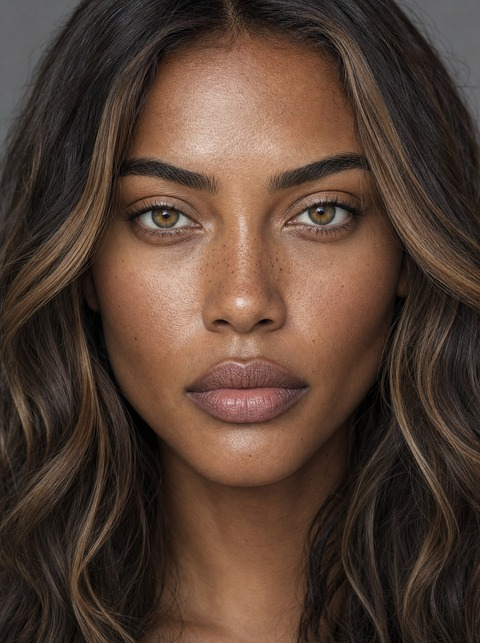
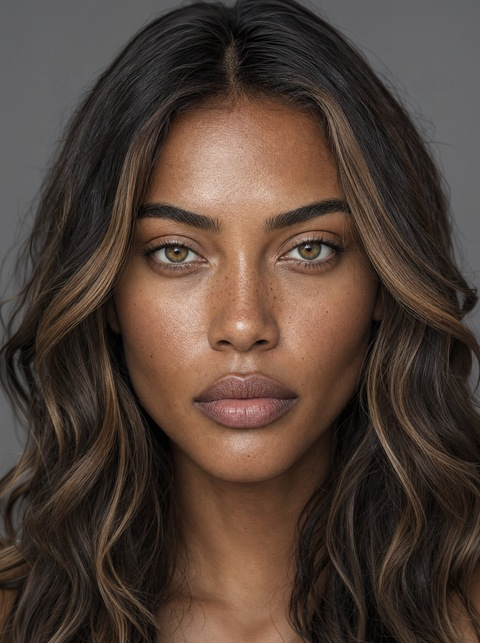
Modeles : Alex, nouveau cadrage du portrait et fiche mise a jour

diff --git a/modeles.html b/modeles.html
@@ -204,7 +204,7 @@ footer a:hover{color:var(--pink2)}
 const FLAT = [{"slug": "femmes-agatha", "name": "Agatha", "section": "Femmes", "sheet": "img/m-femmes-agatha-sheet.jpg", "face": "img/m-femmes-agatha-face.jpg"}, {"slug": "femmes-alex", "name": "Alex", "section": "Femmes", "sheet": "img/m-femmes-alex-sheet.jpg", "face": "img/m-femmes-alex-face.jpg"}, {"slug": "femmes-alice", "name": "Alice", "section": "Femmes", "sheet": "img/m-femmes-alice-sheet.jpg", "face": "img/m-femmes-alice-face.jpg"}, {"slug": "femmes-cyndie", "name": "Cyndie", "section": "Femmes", "sheet": "img/m-femmes-cyndie-sheet.jpg", "face": "img/m-femmes-cyndie-face.jpg"}, {"slug": "femmes-ella", "name": "Ella", "section": "Femmes", "sheet": "img/m-femmes-ella-sheet.jpg", "face": "img/m-femmes-ella-lbface.jpg"}, {"slug": "femmes-eva", "name": "Eva", "section": "Femmes", "sheet": "img/m-femmes-eva-sheet.jpg", "face": "img/m-femmes-eva-face.jpg"}, {"slug": "femmes-ivanka", "name": "Ivanka", "section": "Femmes", "sheet": "img/m-femmes-ivanka-sheet.jpg", "face": "img/m-femmes-ivanka-lbface.jpg"}, {"slug": "femmes-joy", "name": "Joy", "section": "Femmes", "sheet": "img/m-femmes-joy-sheet.jpg", "face": "img/m-femmes-joy-face.jpg"}, {"slug": "femmes-kim", "name": "Kim", "section": "Femmes", "sheet": "img/m-femmes-kim-sheet.jpg", "face": "img/m-femmes-kim-face.jpg"}, {"slug": "femmes-laura", "name": "Laura", "section": "Femmes", "sheet": "img/m-femmes-laura-sheet.jpg", "face": "img/m-femmes-laura-lbface.jpg"}, {"slug": "femmes-malika", "name": "Malika", "section": "Femmes", "sheet": "img/m-femmes-malika-sheet.jpg", "face": "img/m-femmes-malika-face.jpg"}, {"slug": "femmes-meg", "name": "Meg", "section": "Femmes", "sheet": "img/m-femmes-meg-sheet.jpg", "face": "img/m-femmes-meg-lbface.jpg"}, {"slug": "femmes-rachel", "name": "Rachel", "section": "Femmes", "sheet": "img/m-femmes-rachel-sheet.jpg", "face": "img/m-femmes-rachel-lbface.jpg"}, {"slug": "femmes-stephy", "name": "Stephy", "section": "Femmes", "sheet": "img/m-femmes-stephy-sheet.jpg", "face": "img/m-femmes-stephy-lbface.jpg"}, {"slug": "femmes-suzanne", "name": "Suzanne", "section": "Femmes", "sheet": "img/m-femmes-suzanne-sheet.jpg", "face": "img/m-femmes-suzanne-face.jpg"}, {"slug": "femmes-tracy", "name": "Tracy", "section": "Femmes", "sheet": "img/m-femmes-tracy-sheet.jpg", "face": "img/m-femmes-tracy-face.jpg"}, {"slug": "hommes-ansel", "name": "Ansel", "section": "Hommes", "sheet": "img/m-hommes-ansel-sheet.jpg", "face": "img/m-hommes-ansel-face.jpg"}, {"slug": "hommes-bernard", "name": "Bernard", "section": "Hommes", "sheet": "img/m-hommes-bernard-sheet.jpg", "face": "img/m-hommes-bernard-face.jpg"}, {"slug": "hommes-bill", "name": "Bill", "section": "Hommes", "sheet": "img/m-hommes-bill-sheet.jpg", "face": "img/m-hommes-bill-face.jpg"}, {"slug": "hommes-chen", "name": "Chen", "section": "Hommes", "sheet": "img/m-hommes-chen-sheet.jpg", "face": "img/m-hommes-chen-face.jpg"}, {"slug": "hommes-daniel", "name": "Daniel", "section": "Hommes", "sheet": "img/m-hommes-daniel-sheet.jpg", "face": "img/m-hommes-daniel-face.jpg"}, {"slug": "hommes-dave", "name": "Dave", "section": "Hommes", "sheet": "img/m-hommes-dave-sheet.jpg", "face": "img/m-hommes-dave-face.jpg"}, {"slug": "hommes-franck", "name": "Franck", "section": "Hommes", "sheet": "img/m-hommes-franck-sheet.jpg", "face": "img/m-hommes-franck-face.jpg"}, {"slug": "hommes-jack", "name": "Jack", "section": "Hommes", "sheet": "img/m-hommes-jack-sheet.jpg", "face": "img/m-hommes-jack-face.jpg"}, {"slug": "hommes-jamie", "name": "Jamie", "section": "Hommes", "sheet": "img/m-hommes-jamie-sheet.jpg", "face": "img/m-hommes-jamie-face.jpg"}, {"slug": "hommes-joe", "name": "Joe", "section": "Hommes", "sheet": "img/m-hommes-joe-sheet.jpg", "face": "img/m-hommes-joe-face.jpg"}, {"slug": "hommes-john", "name": "John", "section": "Hommes", "sheet": "img/m-hommes-john-sheet.jpg", "face": "img/m-hommes-john-face.jpg"}, {"slug": "hommes-marc", "name": "Marc", "section": "Hommes", "sheet": "img/m-hommes-marc-sheet.jpg", "face": "img/m-hommes-marc-face.jpg"}, {"slug": "hommes-mathias", "name": "Mathias", "section": "Hommes", "sheet": "img/m-hommes-mathias-sheet.jpg", "face": "img/m-hommes-mathias-face.jpg"}, {"slug": "hommes-mike", "name": "Mike", "section": "Hommes", "sheet": "img/m-hommes-mike-sheet.jpg", "face": "img/m-hommes-mike-face.jpg"}, {"slug": "hommes-simon", "name": "Simon", "section": "Hommes", "sheet": "img/m-hommes-simon-sheet.jpg", "face": "img/m-hommes-simon-face.jpg"}, {"slug": "hommes-tom", "name": "Tom", "section": "Hommes", "sheet": "img/m-hommes-tom-sheet.jpg", "face": "img/m-hommes-tom-face.jpg"}, {"slug": "ados-maeva", "name": "Maeva", "section": "Ados", "sheet": "img/m-ados-maeva-sheet.jpg", "face": "img/m-ados-maeva-face.jpg"}, {"slug": "ados-mathis", "name": "Mathis", "section": "Ados", "sheet": "img/m-ados-mathis-sheet.jpg", "face": "img/m-ados-mathis-face.jpg"}, {"slug": "ados-paul", "name": "Paul", "section": "Ados", "sheet": "img/m-ados-paul-sheet.jpg", "face": "img/m-ados-paul-lbface.jpg"}, {"slug": "ados-romy", "name": "Romy", "section": "Ados", "sheet": "img/m-ados-romy-sheet.jpg", "face": "img/m-ados-romy-face.jpg"}, {"slug": "ados-roy", "name": "Roy", "section": "Ados", "sheet": "img/m-ados-roy-sheet.jpg", "face": "img/m-ados-roy-face.jpg"}, {"slug": "ados-steeve", "name": "Steeve", "section": "Ados", "sheet": "img/m-ados-steeve-sheet.jpg", "face": "img/m-ados-steeve-face.jpg"}, {"slug": "enfants-billy", "name": "Billy", "section": "Enfants", "sheet": "img/m-enfants-billy-sheet.jpg", "face": "img/m-enfants-billy-face.jpg"}, {"slug": "enfants-jean", "name": "Jean", "section": "Enfants", "sheet": "img/m-enfants-jean-sheet.jpg", "face": "img/m-enfants-jean-face.jpg"}, {"slug": "enfants-kevin", "name": "Kevin", "section": "Enfants", "sheet": "img/m-enfants-kevin-sheet.jpg", "face": "img/m-enfants-kevin-face.jpg"}, {"slug": "enfants-lauren", "name": "Lauren", "section": "Enfants", "sheet": "img/m-enfants-lauren-sheet.jpg", "face": "img/m-enfants-lauren-face.jpg"}, {"slug": "enfants-lea", "name": "Lea", "section": "Enfants", "sheet": "img/m-enfants-lea-sheet.jpg", "face": "img/m-enfants-lea-face.jpg"}, {"slug": "enfants-rosie", "name": "Rosie", "section": "Enfants", "sheet": "img/m-enfants-rosie-sheet.jpg", "face": "img/m-enfants-rosie-face.jpg"}, {"slug": "seniors-anita", "name": "Anita", "section": "Seniors", "sheet": "img/m-seniors-anita-sheet.jpg", "face": "img/m-seniors-anita-face.jpg"}, {"slug": "seniors-claude", "name": "Claude", "section": "Seniors", "sheet": "img/m-seniors-claude-sheet.jpg", "face": "img/m-seniors-claude-face.jpg"}, {"slug": "seniors-clive", "name": "Clive", "section": "Seniors", "sheet": "img/m-seniors-clive-sheet.jpg", "face": "img/m-seniors-clive-face.jpg"}, {"slug": "seniors-juliette", "name": "Juliette", "section": "Seniors", "sheet": "img/m-seniors-juliette-sheet.jpg", "face": "img/m-seniors-juliette-face.jpg"}, {"slug": "seniors-marise", "name": "Marise", "section": "Seniors", "sheet": "img/m-seniors-marise-sheet.jpg", "face": "img/m-seniors-marise-face.jpg"}, {"slug": "seniors-philippe", "name": "Philippe", "section": "Seniors", "sheet": "img/m-seniors-philippe-sheet.jpg", "face": "img/m-seniors-philippe-face.jpg"}];
 (function(){var e=document.getElementById('kcount');if(!e)return;var s={};FLAT.forEach(function(m){s[m.section]=1});e.textContent=FLAT.length+' visages \u00b7 '+Object.keys(s).length+' catégories';})();
 
-const STATS = {"femmes-agatha": {"h": 176, "hair": "Blond", "eyes": "Bleu"}, "femmes-alex": {"h": 174, "hair": "Châtain foncé", "eyes": "Marron"}, "femmes-alice": {"h": 178, "hair": "Roux", "eyes": "Bleu"}, "femmes-cyndie": {"h": 179, "hair": "Noir", "eyes": "Marron"}, "femmes-ella": {"h": 175, "hair": "Châtain clair", "eyes": "Vert"}, "femmes-eva": {"h": 172, "hair": "Noir", "eyes": "Marron"}, "femmes-ivanka": {"h": 175, "hair": "Blond vénitien", "eyes": "Vert"}, "femmes-joy": {"h": 180, "hair": "Noir", "eyes": "Vert"}, "femmes-kim": {"h": 171, "hair": "Châtain foncé", "eyes": "Vert"}, "femmes-laura": {"h": 178, "hair": "Châtain clair", "eyes": "Vert"}, "femmes-malika": {"h": 173, "hair": "Noir", "eyes": "Marron"}, "femmes-meg": {"h": 179, "hair": "Noir", "eyes": "Marron"}, "femmes-rachel": {"h": 176, "hair": "Blond", "eyes": "Bleu"}, "femmes-stephy": {"h": 174, "hair": "Roux", "eyes": "Vert"}, "femmes-suzanne": {"h": 177, "hair": "Noir", "eyes": "Marron"}, "femmes-tracy": {"h": 175, "hair": "Brun", "eyes": "Marron"}, "hommes-ansel": {"h": 187, "hair": "Blond", "eyes": "Bleu"}, "hommes-bernard": {"h": 184, "hair": "Noir", "eyes": "Marron"}, "hommes-bill": {"h": 182, "hair": "Gris", "eyes": "Bleu"}, "hommes-chen": {"h": 180, "hair": "Noir", "eyes": "Marron"}, "hommes-daniel": {"h": 190, "hair": "Châtain", "eyes": "Bleu"}, "hommes-dave": {"h": 186, "hair": "Gris", "eyes": "Bleu"}, "hommes-franck": {"h": 185, "hair": "Brun", "eyes": "Marron"}, "hommes-jack": {"h": 179, "hair": "Noir", "eyes": "Marron"}, "hommes-jamie": {"h": 181, "hair": "Noir", "eyes": "Marron"}, "hommes-joe": {"h": 183, "hair": "Châtain foncé", "eyes": "Marron"}, "hommes-john": {"h": 188, "hair": "Blond", "eyes": "Bleu"}, "hommes-marc": {"h": 186, "hair": "Noir", "eyes": "Marron"}, "hommes-mathias": {"h": 184, "hair": "Poivre et sel", "eyes": "Bleu"}, "hommes-mike": {"h": 182, "hair": "Brun", "eyes": "Marron"}, "hommes-simon": {"h": 189, "hair": "Noir", "eyes": "Marron"}, "hommes-tom": {"h": 185, "hair": "Brun", "eyes": "Bleu"}, "ados-maeva": {"h": 170, "hair": "Brun", "eyes": "Marron"}, "ados-mathis": {"h": 178, "hair": "Brun", "eyes": "Marron"}, "ados-paul": {"h": 180, "hair": "Noir", "eyes": "Marron"}, "ados-romy": {"h": 168, "hair": "Brun", "eyes": "Marron"}, "ados-roy": {"h": 179, "hair": "Noir", "eyes": "Marron"}, "ados-steeve": {"h": 182, "hair": "Brun", "eyes": "Marron"}, "enfants-billy": {"h": 116, "hair": "Roux", "eyes": "Bleu", "age": 6}, "enfants-jean": {"h": 138, "hair": "Châtain", "eyes": "Vert", "age": 10}, "enfants-kevin": {"h": 110, "hair": "Noir", "eyes": "Marron", "age": 5}, "enfants-lauren": {"h": 116, "hair": "Châtain clair", "eyes": "Vert", "age": 6}, "enfants-lea": {"h": 110, "hair": "Brun", "eyes": "Marron", "age": 5}, "enfants-rosie": {"h": 122, "hair": "Blond", "eyes": "Bleu", "age": 7}, "seniors-anita": {"h": 158, "hair": "Blanc", "eyes": "Marron", "age": 85}, "seniors-claude": {"h": 178, "hair": "Gris", "eyes": "Marron", "age": 82}, "seniors-clive": {"h": 180, "hair": "Blanc", "eyes": "Bleu", "age": 80}, "seniors-juliette": {"h": 168, "hair": "Gris", "eyes": "Bleu", "age": 65}, "seniors-marise": {"h": 160, "hair": "Gris", "eyes": "Marron", "age": 67}, "seniors-philippe": {"h": 179, "hair": "Gris", "eyes": "Marron", "age": 67}};
+const STATS = {"femmes-agatha": {"h": 176, "hair": "Blond", "eyes": "Bleu"}, "femmes-alex": {"h": 174, "hair": "Châtain foncé, balayage caramel", "eyes": "Noisette"}, "femmes-alice": {"h": 178, "hair": "Roux", "eyes": "Bleu"}, "femmes-cyndie": {"h": 179, "hair": "Noir", "eyes": "Marron"}, "femmes-ella": {"h": 175, "hair": "Châtain clair", "eyes": "Vert"}, "femmes-eva": {"h": 172, "hair": "Noir", "eyes": "Marron"}, "femmes-ivanka": {"h": 175, "hair": "Blond vénitien", "eyes": "Vert"}, "femmes-joy": {"h": 180, "hair": "Noir", "eyes": "Vert"}, "femmes-kim": {"h": 171, "hair": "Châtain foncé", "eyes": "Vert"}, "femmes-laura": {"h": 178, "hair": "Châtain clair", "eyes": "Vert"}, "femmes-malika": {"h": 173, "hair": "Noir", "eyes": "Marron"}, "femmes-meg": {"h": 179, "hair": "Noir", "eyes": "Marron"}, "femmes-rachel": {"h": 176, "hair": "Blond", "eyes": "Bleu"}, "femmes-stephy": {"h": 174, "hair": "Roux", "eyes": "Vert"}, "femmes-suzanne": {"h": 177, "hair": "Noir", "eyes": "Marron"}, "femmes-tracy": {"h": 175, "hair": "Brun", "eyes": "Marron"}, "hommes-ansel": {"h": 187, "hair": "Blond", "eyes": "Bleu"}, "hommes-bernard": {"h": 184, "hair": "Noir", "eyes": "Marron"}, "hommes-bill": {"h": 182, "hair": "Gris", "eyes": "Bleu"}, "hommes-chen": {"h": 180, "hair": "Noir", "eyes": "Marron"}, "hommes-daniel": {"h": 190, "hair": "Châtain", "eyes": "Bleu"}, "hommes-dave": {"h": 186, "hair": "Gris", "eyes": "Bleu"}, "hommes-franck": {"h": 185, "hair": "Brun", "eyes": "Marron"}, "hommes-jack": {"h": 179, "hair": "Noir", "eyes": "Marron"}, "hommes-jamie": {"h": 181, "hair": "Noir", "eyes": "Marron"}, "hommes-joe": {"h": 183, "hair": "Châtain foncé", "eyes": "Marron"}, "hommes-john": {"h": 188, "hair": "Blond", "eyes": "Bleu"}, "hommes-marc": {"h": 186, "hair": "Noir", "eyes": "Marron"}, "hommes-mathias": {"h": 184, "hair": "Poivre et sel", "eyes": "Bleu"}, "hommes-mike": {"h": 182, "hair": "Brun", "eyes": "Marron"}, "hommes-simon": {"h": 189, "hair": "Noir", "eyes": "Marron"}, "hommes-tom": {"h": 185, "hair": "Brun", "eyes": "Bleu"}, "ados-maeva": {"h": 170, "hair": "Brun", "eyes": "Marron"}, "ados-mathis": {"h": 178, "hair": "Brun", "eyes": "Marron"}, "ados-paul": {"h": 180, "hair": "Noir", "eyes": "Marron"}, "ados-romy": {"h": 168, "hair": "Brun", "eyes": "Marron"}, "ados-roy": {"h": 179, "hair": "Noir", "eyes": "Marron"}, "ados-steeve": {"h": 182, "hair": "Brun", "eyes": "Marron"}, "enfants-billy": {"h": 116, "hair": "Roux", "eyes": "Bleu", "age": 6}, "enfants-jean": {"h": 138, "hair": "Châtain", "eyes": "Vert", "age": 10}, "enfants-kevin": {"h": 110, "hair": "Noir", "eyes": "Marron", "age": 5}, "enfants-lauren": {"h": 116, "hair": "Châtain clair", "eyes": "Vert", "age": 6}, "enfants-lea": {"h": 110, "hair": "Brun", "eyes": "Marron", "age": 5}, "enfants-rosie": {"h": 122, "hair": "Blond", "eyes": "Bleu", "age": 7}, "seniors-anita": {"h": 158, "hair": "Blanc", "eyes": "Marron", "age": 85}, "seniors-claude": {"h": 178, "hair": "Gris", "eyes": "Marron", "age": 82}, "seniors-clive": {"h": 180, "hair": "Blanc", "eyes": "Bleu", "age": 80}, "seniors-juliette": {"h": 168, "hair": "Gris", "eyes": "Bleu", "age": 65}, "seniors-marise": {"h": 160, "hair": "Gris", "eyes": "Marron", "age": 67}, "seniors-philippe": {"h": 179, "hair": "Gris", "eyes": "Marron", "age": 67}};
 function tall(cm){
   return (cm/100).toFixed(2).replace('.',',')+' m';
 }

diff --git a/models-en.html b/models-en.html
@@ -204,7 +204,7 @@ footer a:hover{color:var(--pink2)}
 const FLAT = [{"slug": "femmes-agatha", "name": "Agatha", "section": "Women", "sheet": "img/m-femmes-agatha-sheet.jpg", "face": "img/m-femmes-agatha-face.jpg"}, {"slug": "femmes-alex", "name": "Alex", "section": "Women", "sheet": "img/m-femmes-alex-sheet.jpg", "face": "img/m-femmes-alex-face.jpg"}, {"slug": "femmes-alice", "name": "Alice", "section": "Women", "sheet": "img/m-femmes-alice-sheet.jpg", "face": "img/m-femmes-alice-face.jpg"}, {"slug": "femmes-cyndie", "name": "Cyndie", "section": "Women", "sheet": "img/m-femmes-cyndie-sheet.jpg", "face": "img/m-femmes-cyndie-face.jpg"}, {"slug": "femmes-ella", "name": "Ella", "section": "Women", "sheet": "img/m-femmes-ella-sheet.jpg", "face": "img/m-femmes-ella-lbface.jpg"}, {"slug": "femmes-eva", "name": "Eva", "section": "Women", "sheet": "img/m-femmes-eva-sheet.jpg", "face": "img/m-femmes-eva-face.jpg"}, {"slug": "femmes-ivanka", "name": "Ivanka", "section": "Women", "sheet": "img/m-femmes-ivanka-sheet.jpg", "face": "img/m-femmes-ivanka-lbface.jpg"}, {"slug": "femmes-joy", "name": "Joy", "section": "Women", "sheet": "img/m-femmes-joy-sheet.jpg", "face": "img/m-femmes-joy-face.jpg"}, {"slug": "femmes-kim", "name": "Kim", "section": "Women", "sheet": "img/m-femmes-kim-sheet.jpg", "face": "img/m-femmes-kim-face.jpg"}, {"slug": "femmes-laura", "name": "Laura", "section": "Women", "sheet": "img/m-femmes-laura-sheet.jpg", "face": "img/m-femmes-laura-lbface.jpg"}, {"slug": "femmes-malika", "name": "Malika", "section": "Women", "sheet": "img/m-femmes-malika-sheet.jpg", "face": "img/m-femmes-malika-face.jpg"}, {"slug": "femmes-meg", "name": "Meg", "section": "Women", "sheet": "img/m-femmes-meg-sheet.jpg", "face": "img/m-femmes-meg-lbface.jpg"}, {"slug": "femmes-rachel", "name": "Rachel", "section": "Women", "sheet": "img/m-femmes-rachel-sheet.jpg", "face": "img/m-femmes-rachel-lbface.jpg"}, {"slug": "femmes-stephy", "name": "Stephy", "section": "Women", "sheet": "img/m-femmes-stephy-sheet.jpg", "face": "img/m-femmes-stephy-lbface.jpg"}, {"slug": "femmes-suzanne", "name": "Suzanne", "section": "Women", "sheet": "img/m-femmes-suzanne-sheet.jpg", "face": "img/m-femmes-suzanne-face.jpg"}, {"slug": "femmes-tracy", "name": "Tracy", "section": "Women", "sheet": "img/m-femmes-tracy-sheet.jpg", "face": "img/m-femmes-tracy-face.jpg"}, {"slug": "hommes-ansel", "name": "Ansel", "section": "Men", "sheet": "img/m-hommes-ansel-sheet.jpg", "face": "img/m-hommes-ansel-face.jpg"}, {"slug": "hommes-bernard", "name": "Bernard", "section": "Men", "sheet": "img/m-hommes-bernard-sheet.jpg", "face": "img/m-hommes-bernard-face.jpg"}, {"slug": "hommes-bill", "name": "Bill", "section": "Men", "sheet": "img/m-hommes-bill-sheet.jpg", "face": "img/m-hommes-bill-face.jpg"}, {"slug": "hommes-chen", "name": "Chen", "section": "Men", "sheet": "img/m-hommes-chen-sheet.jpg", "face": "img/m-hommes-chen-face.jpg"}, {"slug": "hommes-daniel", "name": "Daniel", "section": "Men", "sheet": "img/m-hommes-daniel-sheet.jpg", "face": "img/m-hommes-daniel-face.jpg"}, {"slug": "hommes-dave", "name": "Dave", "section": "Men", "sheet": "img/m-hommes-dave-sheet.jpg", "face": "img/m-hommes-dave-face.jpg"}, {"slug": "hommes-franck", "name": "Franck", "section": "Men", "sheet": "img/m-hommes-franck-sheet.jpg", "face": "img/m-hommes-franck-face.jpg"}, {"slug": "hommes-jack", "name": "Jack", "section": "Men", "sheet": "img/m-hommes-jack-sheet.jpg", "face": "img/m-hommes-jack-face.jpg"}, {"slug": "hommes-jamie", "name": "Jamie", "section": "Men", "sheet": "img/m-hommes-jamie-sheet.jpg", "face": "img/m-hommes-jamie-face.jpg"}, {"slug": "hommes-joe", "name": "Joe", "section": "Men", "sheet": "img/m-hommes-joe-sheet.jpg", "face": "img/m-hommes-joe-face.jpg"}, {"slug": "hommes-john", "name": "John", "section": "Men", "sheet": "img/m-hommes-john-sheet.jpg", "face": "img/m-hommes-john-face.jpg"}, {"slug": "hommes-marc", "name": "Marc", "section": "Men", "sheet": "img/m-hommes-marc-sheet.jpg", "face": "img/m-hommes-marc-face.jpg"}, {"slug": "hommes-mathias", "name": "Mathias", "section": "Men", "sheet": "img/m-hommes-mathias-sheet.jpg", "face": "img/m-hommes-mathias-face.jpg"}, {"slug": "hommes-mike", "name": "Mike", "section": "Men", "sheet": "img/m-hommes-mike-sheet.jpg", "face": "img/m-hommes-mike-face.jpg"}, {"slug": "hommes-simon", "name": "Simon", "section": "Men", "sheet": "img/m-hommes-simon-sheet.jpg", "face": "img/m-hommes-simon-face.jpg"}, {"slug": "hommes-tom", "name": "Tom", "section": "Men", "sheet": "img/m-hommes-tom-sheet.jpg", "face": "img/m-hommes-tom-face.jpg"}, {"slug": "ados-maeva", "name": "Maeva", "section": "Teens", "sheet": "img/m-ados-maeva-sheet.jpg", "face": "img/m-ados-maeva-face.jpg"}, {"slug": "ados-mathis", "name": "Mathis", "section": "Teens", "sheet": "img/m-ados-mathis-sheet.jpg", "face": "img/m-ados-mathis-face.jpg"}, {"slug": "ados-paul", "name": "Paul", "section": "Teens", "sheet": "img/m-ados-paul-sheet.jpg", "face": "img/m-ados-paul-lbface.jpg"}, {"slug": "ados-romy", "name": "Romy", "section": "Teens", "sheet": "img/m-ados-romy-sheet.jpg", "face": "img/m-ados-romy-face.jpg"}, {"slug": "ados-roy", "name": "Roy", "section": "Teens", "sheet": "img/m-ados-roy-sheet.jpg", "face": "img/m-ados-roy-face.jpg"}, {"slug": "ados-steeve", "name": "Steeve", "section": "Teens", "sheet": "img/m-ados-steeve-sheet.jpg", "face": "img/m-ados-steeve-face.jpg"}, {"slug": "enfants-billy", "name": "Billy", "section": "Kids", "sheet": "img/m-enfants-billy-sheet.jpg", "face": "img/m-enfants-billy-face.jpg"}, {"slug": "enfants-jean", "name": "Jean", "section": "Kids", "sheet": "img/m-enfants-jean-sheet.jpg", "face": "img/m-enfants-jean-face.jpg"}, {"slug": "enfants-kevin", "name": "Kevin", "section": "Kids", "sheet": "img/m-enfants-kevin-sheet.jpg", "face": "img/m-enfants-kevin-face.jpg"}, {"slug": "enfants-lauren", "name": "Lauren", "section": "Kids", "sheet": "img/m-enfants-lauren-sheet.jpg", "face": "img/m-enfants-lauren-face.jpg"}, {"slug": "enfants-lea", "name": "Lea", "section": "Kids", "sheet": "img/m-enfants-lea-sheet.jpg", "face": "img/m-enfants-lea-face.jpg"}, {"slug": "enfants-rosie", "name": "Rosie", "section": "Kids", "sheet": "img/m-enfants-rosie-sheet.jpg", "face": "img/m-enfants-rosie-face.jpg"}, {"slug": "seniors-anita", "name": "Anita", "section": "Seniors", "sheet": "img/m-seniors-anita-sheet.jpg", "face": "img/m-seniors-anita-face.jpg"}, {"slug": "seniors-claude", "name": "Claude", "section": "Seniors", "sheet": "img/m-seniors-claude-sheet.jpg", "face": "img/m-seniors-claude-face.jpg"}, {"slug": "seniors-clive", "name": "Clive", "section": "Seniors", "sheet": "img/m-seniors-clive-sheet.jpg", "face": "img/m-seniors-clive-face.jpg"}, {"slug": "seniors-juliette", "name": "Juliette", "section": "Seniors", "sheet": "img/m-seniors-juliette-sheet.jpg", "face": "img/m-seniors-juliette-face.jpg"}, {"slug": "seniors-marise", "name": "Marise", "section": "Seniors", "sheet": "img/m-seniors-marise-sheet.jpg", "face": "img/m-seniors-marise-face.jpg"}, {"slug": "seniors-philippe", "name": "Philippe", "section": "Seniors", "sheet": "img/m-seniors-philippe-sheet.jpg", "face": "img/m-seniors-philippe-face.jpg"}];
 (function(){var e=document.getElementById('kcount');if(!e)return;var s={};FLAT.forEach(function(m){s[m.section]=1});e.textContent=FLAT.length+' faces \u00b7 '+Object.keys(s).length+' categories';})();
 
-const STATS = {"femmes-agatha": {"h": 176, "hair": "Blonde", "eyes": "Blue"}, "femmes-alex": {"h": 174, "hair": "Dark brown", "eyes": "Brown"}, "femmes-alice": {"h": 178, "hair": "Red", "eyes": "Blue"}, "femmes-cyndie": {"h": 179, "hair": "Black", "eyes": "Brown"}, "femmes-ella": {"h": 175, "hair": "Light brown", "eyes": "Green"}, "femmes-eva": {"h": 172, "hair": "Black", "eyes": "Brown"}, "femmes-ivanka": {"h": 175, "hair": "Strawberry blonde", "eyes": "Green"}, "femmes-joy": {"h": 180, "hair": "Black", "eyes": "Green"}, "femmes-kim": {"h": 171, "hair": "Dark brown", "eyes": "Green"}, "femmes-laura": {"h": 178, "hair": "Light brown", "eyes": "Green"}, "femmes-malika": {"h": 173, "hair": "Black", "eyes": "Brown"}, "femmes-meg": {"h": 179, "hair": "Black", "eyes": "Brown"}, "femmes-rachel": {"h": 176, "hair": "Blonde", "eyes": "Blue"}, "femmes-stephy": {"h": 174, "hair": "Red", "eyes": "Green"}, "femmes-suzanne": {"h": 177, "hair": "Black", "eyes": "Brown"}, "femmes-tracy": {"h": 175, "hair": "Brown", "eyes": "Brown"}, "hommes-ansel": {"h": 187, "hair": "Blonde", "eyes": "Blue"}, "hommes-bernard": {"h": 184, "hair": "Black", "eyes": "Brown"}, "hommes-bill": {"h": 182, "hair": "Grey", "eyes": "Blue"}, "hommes-chen": {"h": 180, "hair": "Black", "eyes": "Brown"}, "hommes-daniel": {"h": 190, "hair": "Brown", "eyes": "Blue"}, "hommes-dave": {"h": 186, "hair": "Grey", "eyes": "Blue"}, "hommes-franck": {"h": 185, "hair": "Brown", "eyes": "Brown"}, "hommes-jack": {"h": 179, "hair": "Black", "eyes": "Brown"}, "hommes-jamie": {"h": 181, "hair": "Black", "eyes": "Brown"}, "hommes-joe": {"h": 183, "hair": "Dark brown", "eyes": "Brown"}, "hommes-john": {"h": 188, "hair": "Blonde", "eyes": "Blue"}, "hommes-marc": {"h": 186, "hair": "Black", "eyes": "Brown"}, "hommes-mathias": {"h": 184, "hair": "Salt and pepper", "eyes": "Blue"}, "hommes-mike": {"h": 182, "hair": "Brown", "eyes": "Brown"}, "hommes-simon": {"h": 189, "hair": "Black", "eyes": "Brown"}, "hommes-tom": {"h": 185, "hair": "Brown", "eyes": "Blue"}, "ados-maeva": {"h": 170, "hair": "Brown", "eyes": "Brown"}, "ados-mathis": {"h": 178, "hair": "Brown", "eyes": "Brown"}, "ados-paul": {"h": 180, "hair": "Black", "eyes": "Brown"}, "ados-romy": {"h": 168, "hair": "Brown", "eyes": "Brown"}, "ados-roy": {"h": 179, "hair": "Black", "eyes": "Brown"}, "ados-steeve": {"h": 182, "hair": "Brown", "eyes": "Brown"}, "enfants-billy": {"h": 116, "hair": "Red", "eyes": "Blue", "age": 6}, "enfants-jean": {"h": 138, "hair": "Brown", "eyes": "Green", "age": 10}, "enfants-kevin": {"h": 110, "hair": "Black", "eyes": "Brown", "age": 5}, "enfants-lauren": {"h": 116, "hair": "Light brown", "eyes": "Green", "age": 6}, "enfants-lea": {"h": 110, "hair": "Brown", "eyes": "Brown", "age": 5}, "enfants-rosie": {"h": 122, "hair": "Blonde", "eyes": "Blue", "age": 7}, "seniors-anita": {"h": 158, "hair": "White", "eyes": "Brown", "age": 85}, "seniors-claude": {"h": 178, "hair": "Grey", "eyes": "Brown", "age": 82}, "seniors-clive": {"h": 180, "hair": "White", "eyes": "Blue", "age": 80}, "seniors-juliette": {"h": 168, "hair": "Grey", "eyes": "Blue", "age": 65}, "seniors-marise": {"h": 160, "hair": "Grey", "eyes": "Brown", "age": 67}, "seniors-philippe": {"h": 179, "hair": "Grey", "eyes": "Brown", "age": 67}};
+const STATS = {"femmes-agatha": {"h": 176, "hair": "Blonde", "eyes": "Blue"}, "femmes-alex": {"h": 174, "hair": "Dark brown with honey highlights", "eyes": "Hazel"}, "femmes-alice": {"h": 178, "hair": "Red", "eyes": "Blue"}, "femmes-cyndie": {"h": 179, "hair": "Black", "eyes": "Brown"}, "femmes-ella": {"h": 175, "hair": "Light brown", "eyes": "Green"}, "femmes-eva": {"h": 172, "hair": "Black", "eyes": "Brown"}, "femmes-ivanka": {"h": 175, "hair": "Strawberry blonde", "eyes": "Green"}, "femmes-joy": {"h": 180, "hair": "Black", "eyes": "Green"}, "femmes-kim": {"h": 171, "hair": "Dark brown", "eyes": "Green"}, "femmes-laura": {"h": 178, "hair": "Light brown", "eyes": "Green"}, "femmes-malika": {"h": 173, "hair": "Black", "eyes": "Brown"}, "femmes-meg": {"h": 179, "hair": "Black", "eyes": "Brown"}, "femmes-rachel": {"h": 176, "hair": "Blonde", "eyes": "Blue"}, "femmes-stephy": {"h": 174, "hair": "Red", "eyes": "Green"}, "femmes-suzanne": {"h": 177, "hair": "Black", "eyes": "Brown"}, "femmes-tracy": {"h": 175, "hair": "Brown", "eyes": "Brown"}, "hommes-ansel": {"h": 187, "hair": "Blonde", "eyes": "Blue"}, "hommes-bernard": {"h": 184, "hair": "Black", "eyes": "Brown"}, "hommes-bill": {"h": 182, "hair": "Grey", "eyes": "Blue"}, "hommes-chen": {"h": 180, "hair": "Black", "eyes": "Brown"}, "hommes-daniel": {"h": 190, "hair": "Brown", "eyes": "Blue"}, "hommes-dave": {"h": 186, "hair": "Grey", "eyes": "Blue"}, "hommes-franck": {"h": 185, "hair": "Brown", "eyes": "Brown"}, "hommes-jack": {"h": 179, "hair": "Black", "eyes": "Brown"}, "hommes-jamie": {"h": 181, "hair": "Black", "eyes": "Brown"}, "hommes-joe": {"h": 183, "hair": "Dark brown", "eyes": "Brown"}, "hommes-john": {"h": 188, "hair": "Blonde", "eyes": "Blue"}, "hommes-marc": {"h": 186, "hair": "Black", "eyes": "Brown"}, "hommes-mathias": {"h": 184, "hair": "Salt and pepper", "eyes": "Blue"}, "hommes-mike": {"h": 182, "hair": "Brown", "eyes": "Brown"}, "hommes-simon": {"h": 189, "hair": "Black", "eyes": "Brown"}, "hommes-tom": {"h": 185, "hair": "Brown", "eyes": "Blue"}, "ados-maeva": {"h": 170, "hair": "Brown", "eyes": "Brown"}, "ados-mathis": {"h": 178, "hair": "Brown", "eyes": "Brown"}, "ados-paul": {"h": 180, "hair": "Black", "eyes": "Brown"}, "ados-romy": {"h": 168, "hair": "Brown", "eyes": "Brown"}, "ados-roy": {"h": 179, "hair": "Black", "eyes": "Brown"}, "ados-steeve": {"h": 182, "hair": "Brown", "eyes": "Brown"}, "enfants-billy": {"h": 116, "hair": "Red", "eyes": "Blue", "age": 6}, "enfants-jean": {"h": 138, "hair": "Brown", "eyes": "Green", "age": 10}, "enfants-kevin": {"h": 110, "hair": "Black", "eyes": "Brown", "age": 5}, "enfants-lauren": {"h": 116, "hair": "Light brown", "eyes": "Green", "age": 6}, "enfants-lea": {"h": 110, "hair": "Brown", "eyes": "Brown", "age": 5}, "enfants-rosie": {"h": 122, "hair": "Blonde", "eyes": "Blue", "age": 7}, "seniors-anita": {"h": 158, "hair": "White", "eyes": "Brown", "age": 85}, "seniors-claude": {"h": 178, "hair": "Grey", "eyes": "Brown", "age": 82}, "seniors-clive": {"h": 180, "hair": "White", "eyes": "Blue", "age": 80}, "seniors-juliette": {"h": 168, "hair": "Grey", "eyes": "Blue", "age": 65}, "seniors-marise": {"h": 160, "hair": "Grey", "eyes": "Brown", "age": 67}, "seniors-philippe": {"h": 179, "hair": "Grey", "eyes": "Brown", "age": 67}};
 function tall(cm){
   var i=Math.round(cm/2.54), f=Math.floor(i/12); return f+"'"+(i-f*12)+'"';
 }
